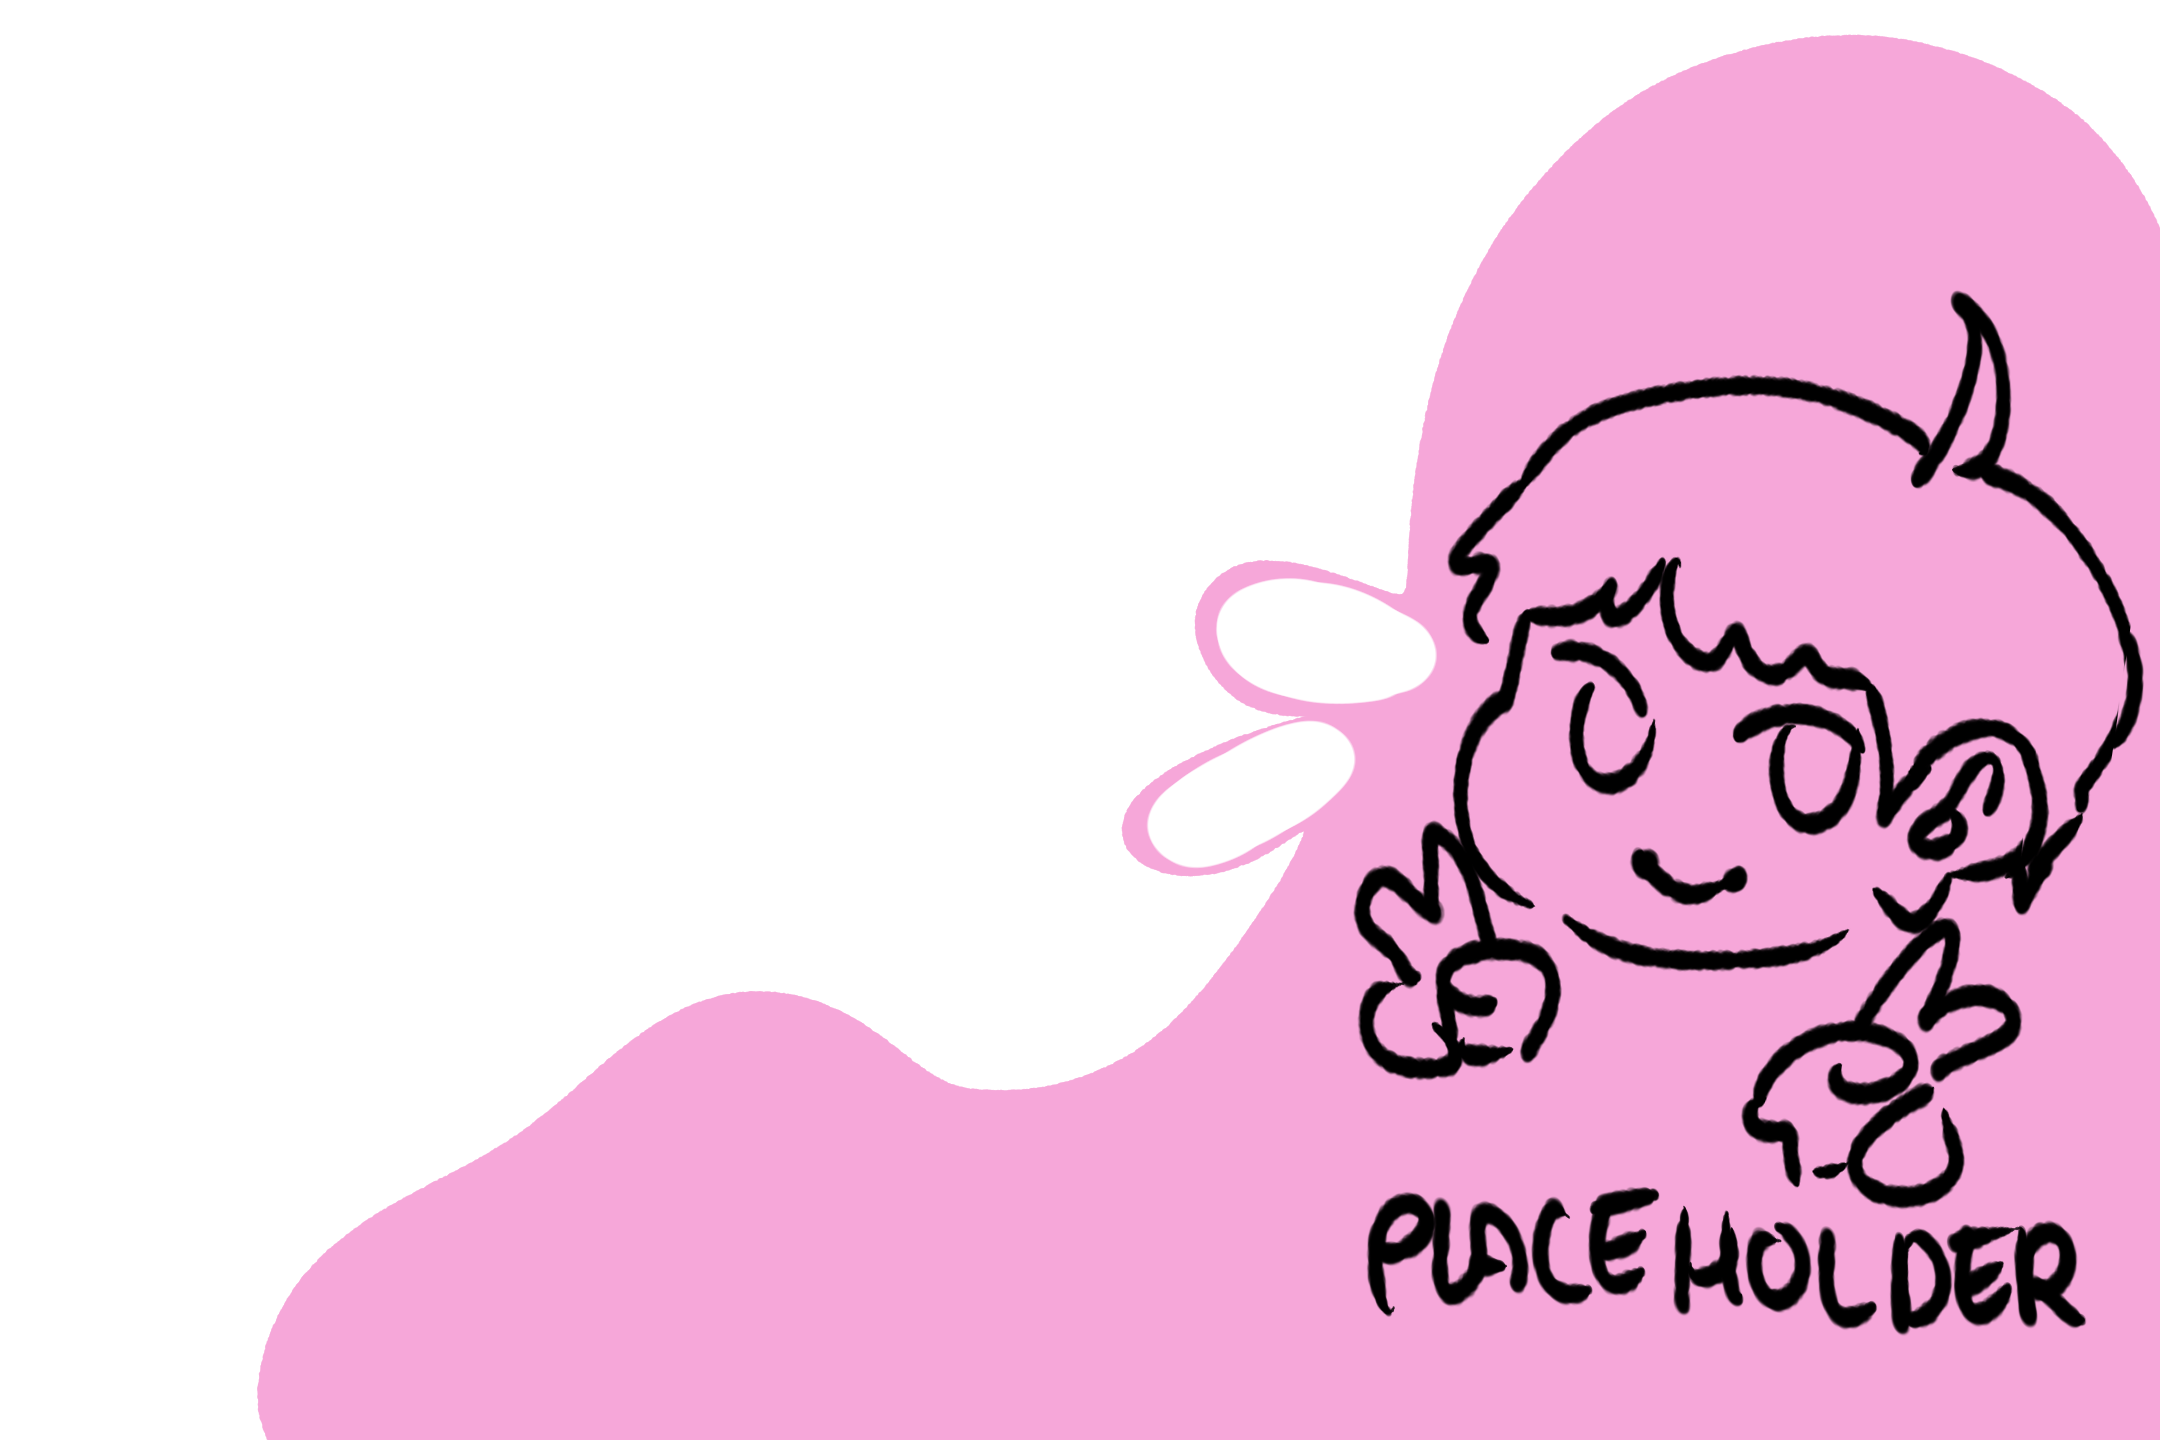
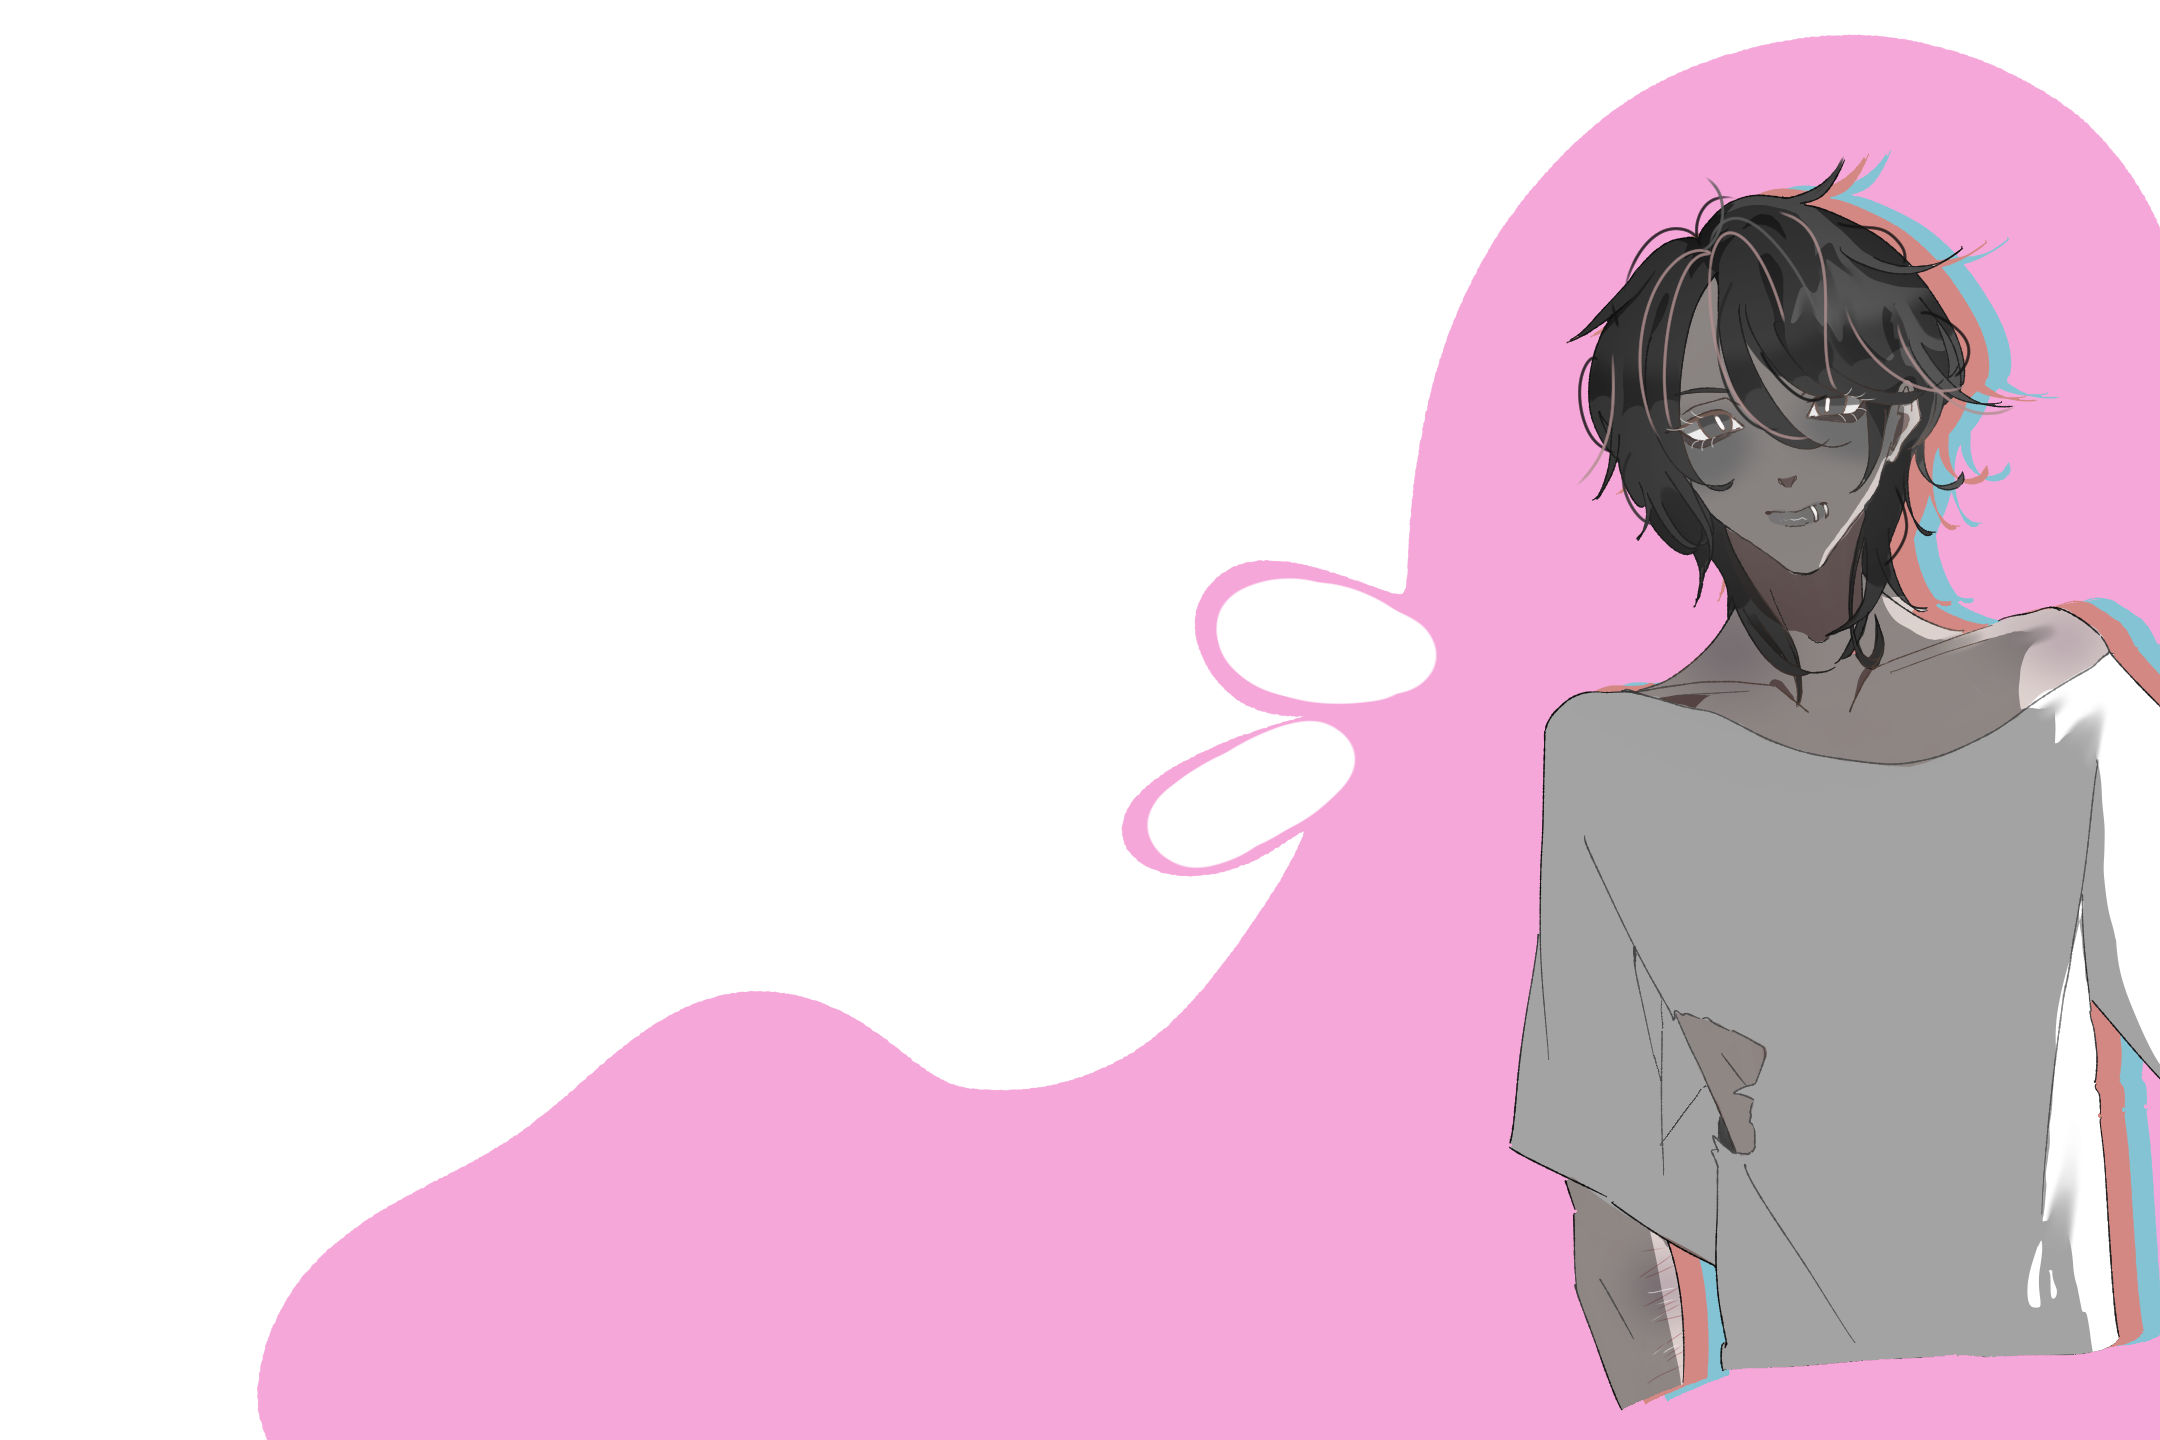
stickers de personajes
futuros stickers para comprar en la tienda. por ahora solo hay un menu,, en el que se desbloquean presionando la A. en el futuro se desbloquea cada uno una vez completado el nivel,, en la tienda.

Changed region(s): [[0.6204, 0.0938, 1.0, 1.0]]

diff --git a/src/stickerMenu.js b/src/stickerMenu.js
@@ -1,0 +1,90 @@
+import { STICKER_COUNT, STICKER_POS, getStickers, countStickers, unlockNextSticker } from "./stickers.js";
+const SCALE = 800 / 2160;  
+
+export default class StickerMenu {
+    constructor (scene, buttonX, buttonY) {
+        this.scene = scene;
+        this.items = null;
+        this.stickerImgs = [];
+
+        scene.add.nineslice(buttonX, buttonY, "buttons", 0, 50, 15, 5, 5, 5, 5).setScale(3);
+        scene.add.text(buttonX, buttonY, "Stickers", { font: "bold 16px monospace", fill: "#f3e9e4" }).setOrigin(0.5);
+        let zone = scene.add.zone(buttonX, buttonY, 150, 45).setInteractive({ useHandCursor: true});
+        zone.on ("pointerup", () => this.open());
+
+        scene.input.keyboard.on("keydown-A", (e) => {
+            if (this.isOpen && !e.repeat) this.unlockNext();
+        });
+        scene.input.keyboard.on("keydown-ESC", () => this.close());
+    }
+
+    get isOpen() {
+        return this.items !== null;
+    }
+
+    open() {
+        let scene = this.scene;
+        if (this.isOpen || scene.levelPopup) return;
+        if (scene.player) scene.player.canMove = false;
+
+        let items = [];
+
+         // bloquear clicks de detrás
+        items.push(scene.add.rectangle(400, 300, 800, 600, 0x000000, 0.6).setInteractive());  
+        items.push(scene.add.image(0, 0, "stickerBase").setOrigin(0, 0).setScale(SCALE));
+        // un sticker por silueta
+        this.stickerImgs = [];
+        for (let i = 0; i < STICKER_COUNT; i++) {
+            let img = scene.add.image(0, 0, "sticker" + (i + 1)).setScale(SCALE);
+            // se coloca por el centro para que la animación de aparecer crezca desde el medio
+            img.setPosition((STICKER_POS[i][0] + img.width / 2) * SCALE, (STICKER_POS[i][1] + img.height / 2) * SCALE);
+            this.stickerImgs.push(img);
+            items.push(img);
+        }
+
+        // contador y botón de cerrar, arriba en el hueco libre del centro
+        this.countText = scene.add.text(400, 20, "", {
+            font: "bold 20px monospace", fill: "#ffffff", backgroundColor: "#e643aa", padding: { x: 4, y: 2 }
+        }).setOrigin(0.5);
+        /*let closeBtn = scene.add.text(400, 44, "CERRAR (ESC)", {
+            font: "bold 13px monospace", fill: "#ffffff", padding: { x: 4, y: 3 }
+        }).setOrigin(0.5).setInteractive({ useHandCursor: true });
+        closeBtn.on("pointerup", () => this.close());*/
+
+        let close = scene.add.image(760, 30, "icons", 16).setScale(3);
+        close.setInteractive();
+        close.on("pointerup", () => this.close());
+        items.push(this.countText, close);
+
+        items.forEach(o => o.setDepth(1000));
+        this.items = items;
+        this.refresh(0);
+    }
+
+    close() {
+        if (!this.isOpen) return;
+        this.items.forEach(o => o.destroy());
+        this.items = null;
+        if (this.scene.player) this.scene.player.canMove = true;
+    }
+
+    // mostrar cada sticker según el estado
+    refresh(newId) {
+        let unlocked = getStickers(this.scene.registry);
+        for (let i = 0; i < STICKER_COUNT; i++) {
+            this.stickerImgs[i].setVisible(unlocked[i]);
+        }
+        this.countText.setText("STICKERS " + countStickers(this.scene.registry) + "/" + STICKER_COUNT);
+
+        if (newId > 0) {
+            let img = this.stickerImgs[newId - 1];
+            img.setScale(0);
+            this.scene.tweens.add({ targets: img, scale: SCALE, duration: 300, ease: "Back.Out" });
+        }
+    }
+
+    unlockNext() {
+        let id = unlockNextSticker(this.scene.registry);
+        if (id > 0) this.refresh(id);
+    }
+}

diff --git a/src/stickers.js b/src/stickers.js
@@ -1,0 +1,50 @@
+export const STICKER_COUNT = 10;
+
+// las posiciones exactas las consegui con ia [skull]
+export const STICKER_POS = [
+    [1487, 25],   // 1
+    [608, 588],   // 2
+    [662, 1048],  // 3  
+    [0, 65],      // 4
+    [1244, 2],    // 5
+    [13, 847],    // 6
+    [360, 19],    // 7
+    [1567, 899],  // 8
+    [899, 186],   // 9
+    [1076, 555]   // 10 
+]
+
+// el estado de desbloqueo de sticker se guarda en el registry este global
+export function getStickers(registry) {
+    // busca si hay algo guardado con ese nombre clave
+    if (!registry.has("stickers")) {
+        // crea el array con todo false,, o sea bloqueados
+        // el .set lo guarda en el registry yey
+        registry.set("stickers", new Array(STICKER_COUNT).fill(false));
+    }
+    
+    //lo devuelve
+    return registry.get("stickers");
+}
+
+export function countStickers(registry) {
+    // contamos cuantos stikers hay debsloqeados
+    // el filter se queda solo con los TRUEE y .length pues el valor de los desbloqueados
+    return getStickers(registry).filter(Boolean).length;
+}
+
+// desbloquear stickers por id
+export function unlockSticker(registry, id) {
+    let stickers = getStickers(registry);
+    if (id < 1 || id > STICKER_COUNT || stickers[id - 1]) return false; // si es invalido o ya desbloqueado
+    stickers [id - 1] = true;
+    return true;
+}
+
+export function unlockNextSticker(registry) {
+    let stickers = getStickers(registry);
+    let i = stickers.indexOf(false);
+    if (i === -1) return 0;
+    stickers[i] = true;
+    return i + 1;
+}

diff --git a/src/scenes/parkScene.js b/src/scenes/parkScene.js
@@ -1,5 +1,6 @@
 import Player from "../player.js";
 import Chan from "../chan.js";
+import StickerMenu from "../stickerMenu.js";
 
 // Parque 
 export default class ParkScene extends Phaser.Scene {
@@ -50,6 +51,7 @@ export default class ParkScene extends Phaser.Scene {
         this.player = new Player(this, 400, 555).setScale(1.5);
 
         this.createCounters();
+        this.stickerMenu = new StickerMenu(this, 715, 80);
     }
 
     // Las 10 personas en círculo. El frame i es la persona i+1
@@ -81,7 +83,7 @@ export default class ParkScene extends Phaser.Scene {
     }
 
     update() {
-        if (this.levelPopup || !this.player) return;   // con popup abierto no se comprueba nada
+        if (this.levelPopup || this.stickerMenu.isOpen || !this.player) return;   // con popup abierto no se comprueba nada
 
         for (let chan of this.chans) {
             let near = chan.isPlayerNear(this.player);

diff --git a/src/scenes/bootScene.js b/src/scenes/bootScene.js
@@ -42,12 +42,18 @@ preload(){
         this.load.tilemapTiledJSON('nivel', 'assets/Maps/nivel.json')
 
 
+        // base para los stikers
+        this.load.image("stickerBase", "assets/Stickers/stickerBase.png");
+
         for (let i = 1; i <= 10; i++) {
             // imagenes de los niveles
             this.load.image("level" + i, "assets/Level" + i + ".png");
             // imagenes de las memorias
             this.load.image("memory" + i, "assets/Memories/memory" + i + ".png");
+            // imagenes de estikersssss
+            this.load.image("sticker" + i, "assets/Stickers/" + i + ".png");
         }
+
 
         
 
